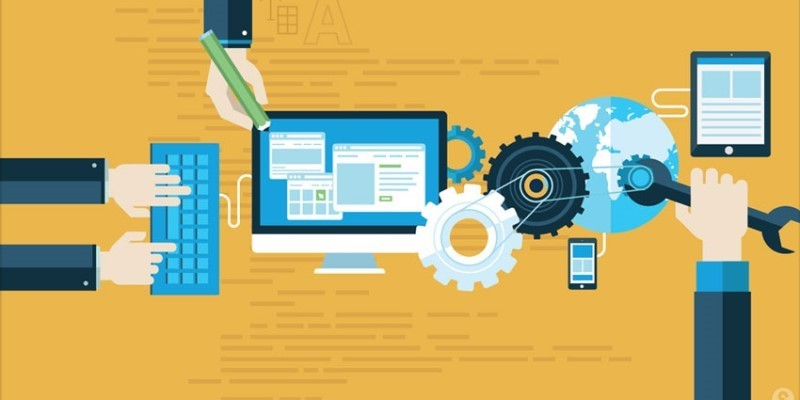
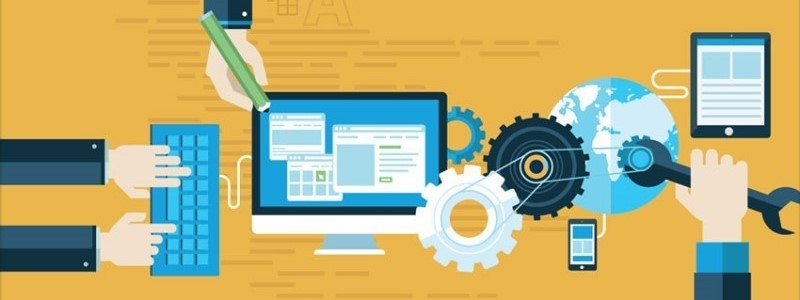
Perfil

diff --git a/Index.html b/Index.html
@@ -27,8 +27,8 @@
             </div>
         </div>
     </nav>
-    <div class="" id="banner">
-        <div id="Fade" class="carousel slide carousel-fade" data-bs-ride="carousel">
+    <div style="margin: 0.5%;" id="banner">
+        <div id="Fade" class="carousel slide carousel-fade " data-bs-ride="carousel">
             <div class="carousel-inner">
                 <div class="carousel-item active">
                     <img src="Lib/bootstrap/resourses/codigo.jpg" class="d-block w-100" alt="...">
@@ -54,11 +54,20 @@
     <div class="container-fluid">
         <div class="row">
             <div class="cajas col-sm" id="cabe">
-                <h1>Santiago Mercado</h1>
-                <p>Estudiante de Ingenieria</p>
-                <p>Full Stack Developer Jr</p>
+                <div class="row">
+                    <div class="col-4">
+                        <img src="https://scontent.fcor10-3.fna.fbcdn.net/v/t1.6435-9/158825771_4057638717629892_712162697323018364_n.jpg?_nc_cat=104&ccb=1-6&_nc_sid=09cbfe&_nc_ohc=uioIyVrEew8AX8hNM_2&_nc_oc=AQkvIqLwVZijYRZMK0ZRS0OhUZJ3oDUV8SqnYL9EFmgWlnOsmen8E7YFXT_gunh95ZQ&tn=gsdsklkz339bNATA&_nc_ht=scontent.fcor10-3.fna&oh=00_AT_JMGSnkebyPzG4vE2au-Q1SLt7X0fxhLjunCnQgUjiFQ&oe=629A711B"
+                            alt="" style="width:150px ;">
+                    </div>
+                    <div class="col">
+                        <h2>Santiago Mercado</h2>
+                        <p>Estudiante de Ingenieria</p>
+                        <p>Full Stack Developer Jr</p>
+                    </div>
+                </div>
+
             </div>
-            <div class="cajas col-sm" id="perfil">
+            <div class="cajas col-sm-6" id="perfil">
                 <h2>Perfil</h2>
                 <p>En busqueda de superarme en cada aspecto y dar siempre lo mejor de mí en todos los ámbitos. Aprendo
                     rápido todo
@@ -66,8 +75,6 @@
             </div>
         </div>
     </div>
-
-
 
     <section>
 
@@ -78,23 +85,100 @@
         </div>
         <div>
             <article class="cajas" id="edu">
-                <h2> Educacion </h2>
-                <div>
-                    <h3>UTN Facultad Regional San Francisco</h3>
-                    <p>2019-Actualidad</p>
-                    <p>Cursando el 3er año de la carrera con 17 materias aprobadas.</p>
-                </div>
-                <div>
-                    <h3>EETP N°453 Brigadier Estanislao López</h3>
-                    <p>2012-2018</p>
-                    <p>Egresado con el titulo de Técnico en Equipos e Instalaciones Electromecánicas.</p>
-                </div>
+                <h2> Educación </h2>
+                <div class="accordion" id="accordionEducacion">
+                    <div class="accordion-item bg-white">
+                        <h2 class="accordion-header" id="panelsStayOpen-headingOne">
+                            <button class="accordion-button" type="button" data-bs-toggle="collapse"
+                                data-bs-target="#panelsStayOpen-collapseOne" aria-expanded="true"
+                                aria-controls="panelsStayOpen-collapseOne">
+                                <strong> UTN Facultad Regional San Francisco</strong>
+                            </button>
+                        </h2>
+                        <div id="panelsStayOpen-collapseOne" class="accordion-collapse collapse show"
+                            aria-labelledby="panelsStayOpen-headingOne">
+                            <div class="accordion-body">
+                                <div class="row">
+                                    <div class="col-3">
+                                        <img style="width: 110%; padding-top: 15px;"
+                                            src="Lib/bootstrap/resourses/Utn FRSFCO.png"
+                                            alt="UTN Facultad Regional San Francisco">
+                                    </div>
+                                    <div class="col">
+                                        <strong>(2019-Actualidad)</strong> Universidad que se le da especial énfasis a
+                                        la aplicación de las
+                                        utilidades informáticas como herramientas en la formación tanto de los
+                                        ingenieros comode los licenciados y técnicos, los que una vez graduados se
+                                        encuentran especialmente capacitados para hacer uso de ellas profesionalmente.
+                                        Actualmente con 17 materias aprobadas de la carrera de Ing. en Sistemas de
+                                        Información.
+                                    </div>
+                                </div>
+                            </div>
+                        </div>
+                    </div>
+                    <div class="accordion-item">
+                        <h2 class="accordion-header" id="panelsStayOpen-headingTwo">
+                            <button class="accordion-button collapsed" type="button" data-bs-toggle="collapse"
+                                data-bs-target="#panelsStayOpen-collapseTwo" aria-expanded="false"
+                                aria-controls="panelsStayOpen-collapseTwo">
+                                <strong> Argentina Programa - #Yo Programo</strong>
+                            </button>
+                        </h2>
+                        <div id="panelsStayOpen-collapseTwo" class="accordion-collapse collapse"
+                            aria-labelledby="panelsStayOpen-headingTwo">
+                            <div class="accordion-body">
+                                <div class="row">
+                                    <div class="col-3">
+                                        <img style="width: 100%;" src="Lib/bootstrap/resourses/APLogo-20-20 - balck.png"
+                                            alt="Argentina Programa - #Yo Programo">
+                                    </div>
+                                    <div class="col">
+                                        <strong>(Febrero - Agosto 2022)</strong>Egresado con el título de Full Stack
+                                        Developer Jr. Es un programa de formación en programación y pensamiento
+                                        computacional de dos fases con salida laboral en oficios digitales diseñado por
+                                        la Cámara de la industria Argentina del Software con certificacion en el INTI.
+                                    </div>
+                                </div>
+                            </div>
+                        </div>
+                        <div class="accordion-item">
+                            <h2 class="accordion-header" id="panelsStayOpen-headingThree">
+                                <button class="accordion-button collapsed" type="button" data-bs-toggle="collapse"
+                                    data-bs-target="#panelsStayOpen-collapseThree" aria-expanded="false"
+                                    aria-controls="panelsStayOpen-collapseThree">
+                                    <strong>Escuela de Educación Técnica Secundaria EETP 453</strong>
+                                </button>
+                            </h2>
+                            <div id="panelsStayOpen-collapseThree" class="accordion-collapse collapse"
+                                aria-labelledby="panelsStayOpen-headingThree">
+                                <div class="accordion-body">
+                                    <div class="accordion-body">
+                                        <div class="row">
+                                            <div class="col-3 align-content-center">
+                                                <img style="width: 70%; ; padding-left: 30px;margin-top: -15px;"
+                                                    src="Lib/bootstrap/resourses/1581.5395350815611716202062531569.jpg"
+                                                    alt="Escuela de Educacion Tecnica Secundaria EETP 453">
+                                            </div>
+                                            <div class="col">
+                                                <strong>(2012 - 2018) </strong>Egresado con el titulo de Técnico en
+                                                Equipos e Instalaciones
+                                                Electromecánicas. Escuela Técnica que posee enfoque en el desarrollo y
+                                                mantencion electromecanico como en gestion comercial de empresas e
+                                                industrias.
+                                            </div>
+                                        </div>
+                                    </div>
+                                </div>
+                            </div>
+                        </div>
+                    </div>
             </article>
         </div>
 
         <article class="cajas" id="con">
             <div>
-                <h2>Conocimientos</h2>
+                <h2>Hard and Soft Skills</h2>
 
                 <div id="lenguajes">
                     <div class="container-md p-5">

diff --git a/style.css b/style.css
@@ -81,3 +81,8 @@ body {
 .card-border:hover{
     transform: scale(1.05);
 }
+
+.img-banner{
+    max-height: 600px;
+    
+}
